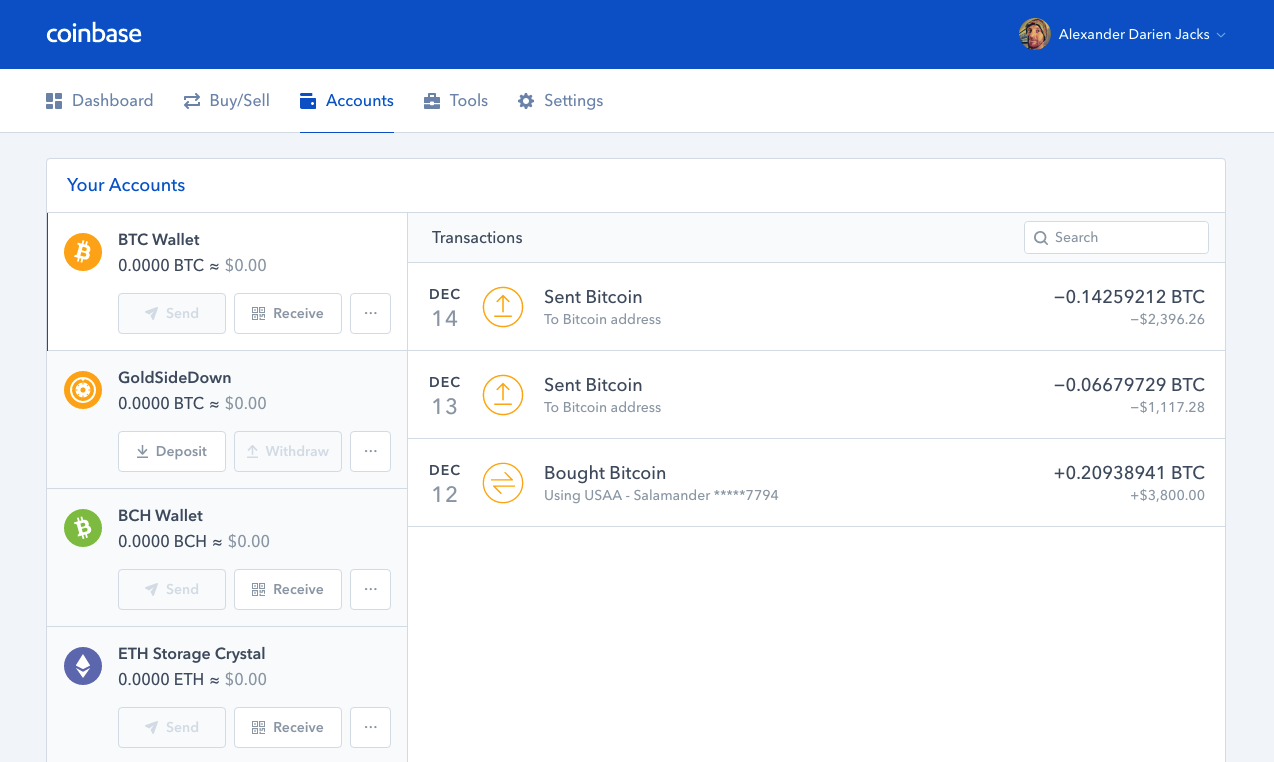
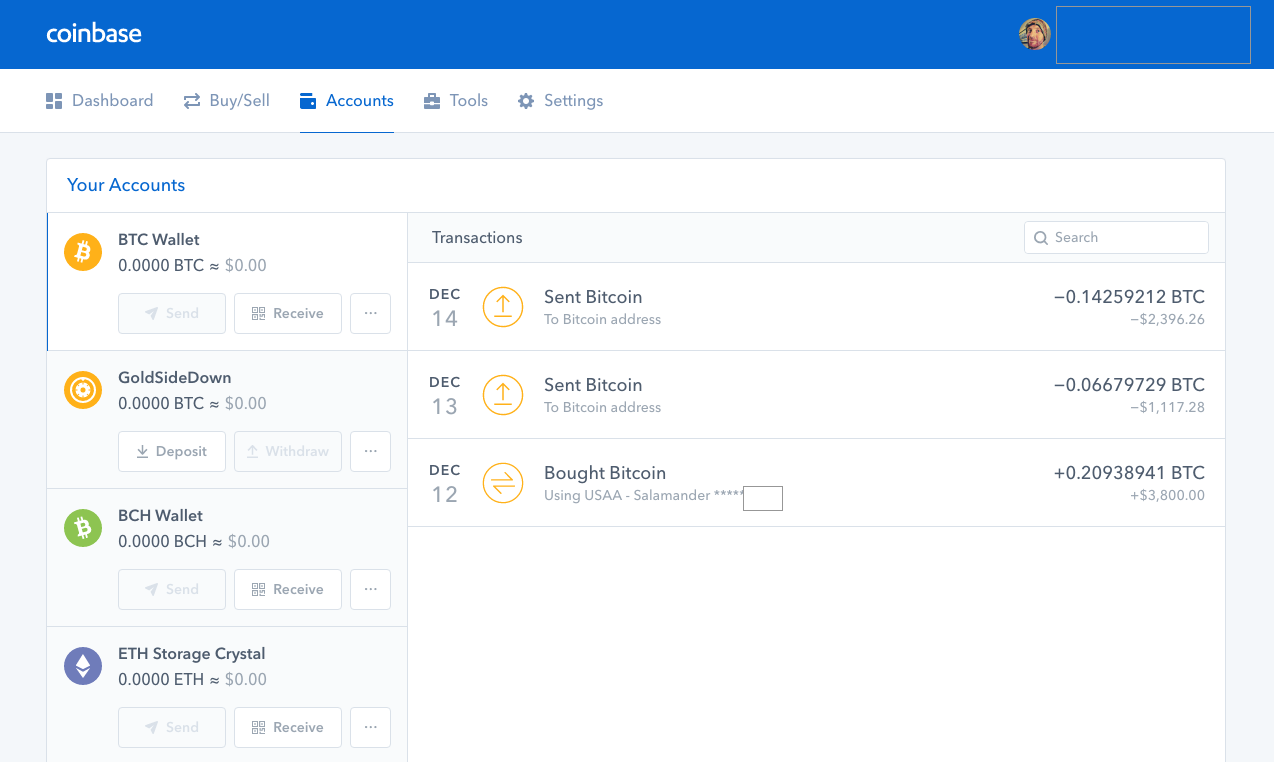
:sparkles: completes Buy user path w proper masking of PII

diff --git a/src/app/buy/buy.component.html b/src/app/buy/buy.component.html
@@ -1,35 +1,192 @@
-<!--Card1-->
-<div class="col-md-4 my-3 text mx-auto">
-
-    <!--Card-->
-    <div class="card card-cascade narrower">
-
-        <!--Card image-->
-        <div class="view overlay hm-white-slight waves-light" mdbRippleRadius>
-            <img src="../assets/me_on_kitchen.jpg" class="img-fluid" alt="">
-            <a>
-                <div class="mask"></div>
-            </a>
+<div class="card-deck">
+    <!--Card1-->
+    <div class="col-md-4 my-3 text mx-auto">
+        <!--Card-->
+        <div class="card card-cascade narrower">
+            <!--Card image-->
+            <div class="view overlay hm-white-slight waves-light" mdbRippleRadius>
+                <img src="../assets/coinbase0.png" class="img-fluid" alt="">
+                <a>
+                    <div class="mask"></div>
+                </a>
+            </div>
+            <!--/.Card image-->
+            <!--Card content-->
+            <div class="card-body">
+                <h5 class="pink-text">Buy Crypto #1</h5>
+                <!--Title-->
+                <h4 class="card-title">
+                    <a href="https://www.coinbase.com/join/59153a1fde7f8800bcc87066" target="_blank">Sign up for Coinbase</a>
+                </h4>
+                <!--Text-->
+                <p class="card-text">
+                    The easiest way to use cryptocurrency wallets, a great place to start buying crypto.
+                </p>
+                <p class="card-text">
+                    Consider buying Ethereum instead of Bitcoin-- it's less volatile recently.
+                </p>
+                <p class="callout">
+                    (And I believe it's a much better long-term investment!)
+                </p>
+            </div>
+            <!--/.Card content-->
         </div>
-        <!--/.Card image-->
-
-        <!--Card content-->
-        <div class="card-body">
-            <h5 class="pink-text">Crypto</h5>
-            <!--Title-->
-            <h4 class="card-title">Buy Crypto</h4>
-            <!--Text-->
-            <p class="card-text">
-                If price lower than usual, today is a good day to buy crypto!!
-            </p>
-            <p>
-                If price within 15% of all-time high, SELL SELL SELL
-            </p>
-            <a class="btn btn-unique waves-light" mdbRippleRadius>BUY</a>
-        </div>
-        <!--/.Card content-->
-
     </div>
+    <!--/.Card1-->
+
+
+    <!--Card2-->
+    <div class="col-md-4 my-3 text mx-auto">
+        <!--Card-->
+        <div class="card card-cascade narrower">
+            <!--Card image-->
+            <div class="view overlay hm-white-slight waves-light" mdbRippleRadius>
+                <img src="../assets/coinbase1.png" class="img-fluid" alt="">
+                <a>
+                    <div class="mask"></div>
+                </a>
+            </div>
+            <!--/.Card image-->
+            <!--Card content-->
+            <div class="card-body">
+                <h5 class="pink-text">Buy Crypto #2</h5>
+                <!--Title-->
+                <h4 class="card-title">Stay Safe! Use 2FA!</h4>
+                <!--Text-->
+                <p class="card-text">
+                    Once you join, go to Settings > Security
+                </p>
+                <p class="card-text">
+                    Adding your phone number for two-factor authentication is the easiest way. Coinbase will ask you to confirm every action on your smartphone.
+                </p>
+                <p class="card-text">
+                    <a href="https://www.google.com/landing/2step/" target="_blank">Google Authenticator app is recommended for 2FA.</a>
+
+                </p>
+            </div>
+            <!--/.Card content-->
+        </div>
+    </div>
+    <!--/.Card2-->
+
+    <!--Card2.5-->
+    <div class="col-md-4 my-3 text mx-auto">
+        <!--Card-->
+        <div class="card card-cascade narrower">
+            <!--Card image-->
+            <div class="view overlay hm-white-slight waves-light" mdbRippleRadius>
+                <img src="../assets/coinbase4.png" class="img-fluid" alt="">
+                <a>
+                    <div class="mask"></div>
+                </a>
+            </div>
+            <!--/.Card image-->
+            <!--Card content-->
+            <div class="card-body">
+                <h5 class="pink-text">Set up wallet / vault</h5>
+                <!--Title-->
+                <h4 class="card-title">Coinbase Accounts</h4>
+                <!--Text-->
+                <p class="card-text">
+                    Crypto wallets are what hold cryptocurrency. Create one for the coin you plan to buy.
+                </p>
+            </div>
+            <!--/.Card content-->
+        </div>
+    </div>
+    <!--/.Card2.5-->
+
+    <!--Card3-->
+    <div class="col-md-4 my-3 text mx-auto">
+        <!--Card-->
+        <div class="card card-cascade narrower">
+            <!--Card image-->
+            <div class="view overlay hm-white-slight waves-light" mdbRippleRadius>
+                <img src="../assets/coinbase2.png" class="img-fluid" alt="">
+                <a>
+                    <div class="mask"></div>
+                </a>
+            </div>
+            <!--/.Card image-->
+            <!--Card content-->
+            <div class="card-body">
+                <h5 class="pink-text">Buy Crypto #3</h5>
+                <!--Title-->
+                <h4 class="card-title">
+                    Attach a bank account
+                </h4>
+                <!--Text-->
+                <p class="card-text">
+                    Once you add a debit or credit account, head to Buy/Sell.
+                </p>
+                <p class="card-text">
+                    Any money you send will get stored in a Coinbase wallet. You can move it somewhere else after.
+                </p>
+            </div>
+            <!--/.Card content-->
+        </div>
+    </div>
+    <!--/.Card3-->
+
+    <!--Card4-->
+    <div class="col-md-4 my-3 text mx-auto">
+        <!--Card-->
+        <div class="card card-cascade narrower">
+            <!--Card image-->
+            <div class="view overlay hm-white-slight waves-light" mdbRippleRadius>
+                <img src="../assets/coinbase3.png" class="img-fluid" alt="">
+                <a>
+                    <div class="mask"></div>
+                </a>
+            </div>
+            <!--/.Card image-->
+            <!--Card content-->
+            <div class="card-body">
+                <h5 class="pink-text">Buy Crypto #4</h5>
+                <!--Title-->
+                <h4 class="card-title">Choose currency</h4>
+                <!--Text-->
+                <p class="callout">
+                    PLEASE only invest money you can afford to lose! Crypto markets are very exciting, uncertain things.
+                </p>
+                <p class="card-text">
+                    (You can increase the weekly max by providing extra IDs to Coinbase. More on this soon.)
+                </p>
+            </div>
+            <!--/.Card content-->
+        </div>
+    </div>
+    <!--/.Card4-->
+
+    <!--Card5-->
+    <div class="col-md-4 my-3 text mx-auto">
+        <!--Card-->
+        <div class="card card-cascade narrower">
+            <!--Card image-->
+            <div class="view overlay hm-white-slight waves-light" mdbRippleRadius>
+                <img src="../assets/coinbase4.png" class="img-fluid" alt="">
+                <a>
+                    <div class="mask"></div>
+                </a>
+            </div>
+            <!--/.Card image-->
+            <!--Card content-->
+            <div class="card-body">
+                <h5 class="pink-text">Buy (& Send) Crypto</h5>
+                <!--Title-->
+                <h4 class="card-title">Accounts also controls sending</h4>
+                <!--Text-->
+                <p class="card-text">
+                    If you want to own currency not sold by Coinbase, here's where you can send it to other exchanges.
+                </p>
+                <p class="card-text">
+                    <a href="https://www.binance.com/?ref=12272309" target="_blank">
+                    Binance is highly recommended.</a> Check out more under the Trade section of this little guide!
+                </p>
+            </div>
+            <!--/.Card content-->
+        </div>
+    </div>
+    <!--/.Card5-->
 
 </div>
-<!--/.Card1-->
